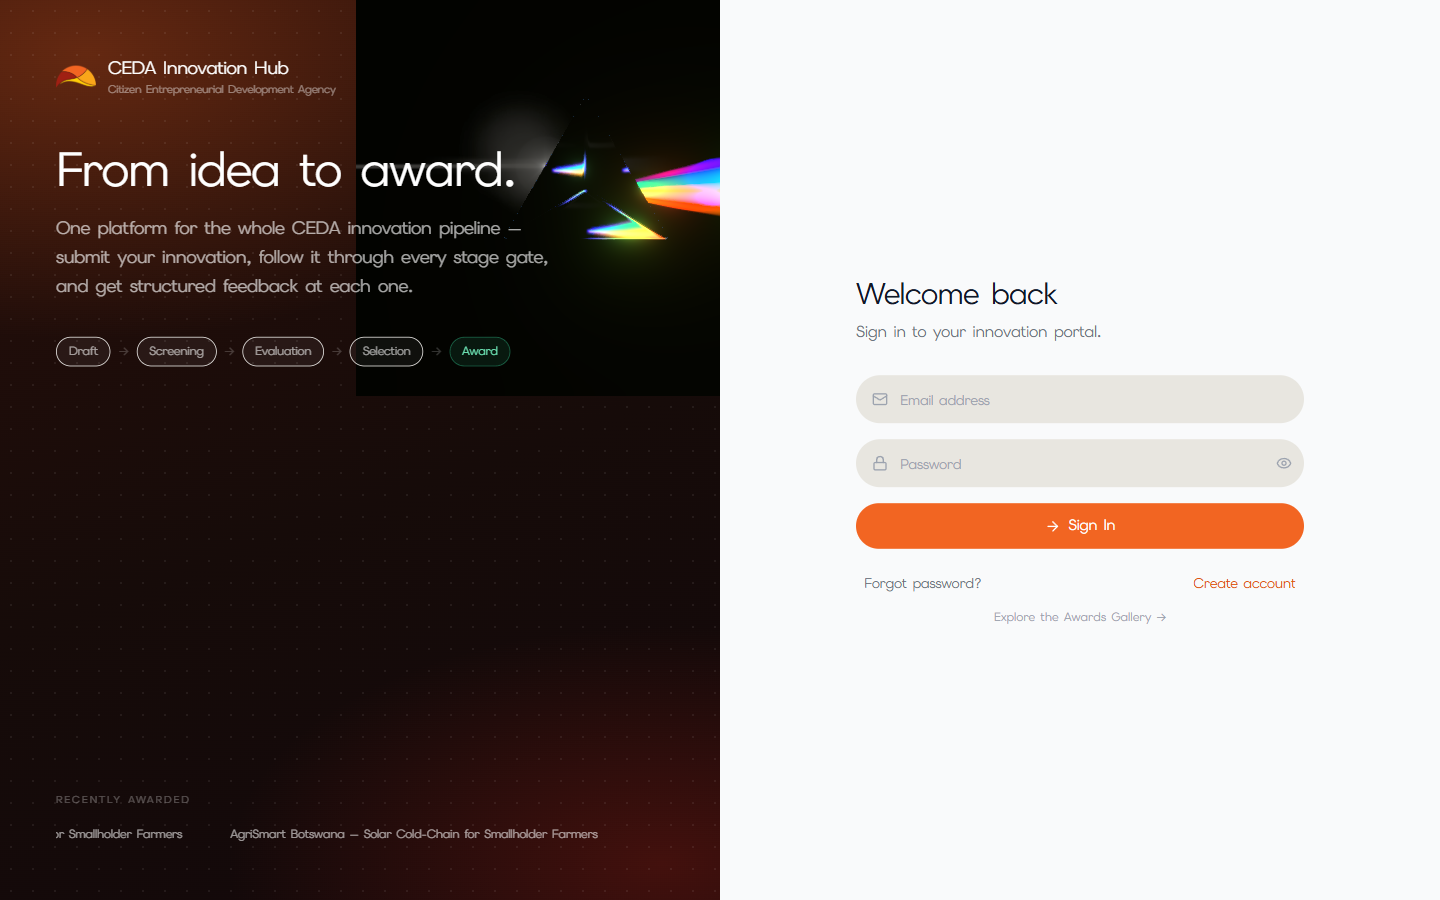
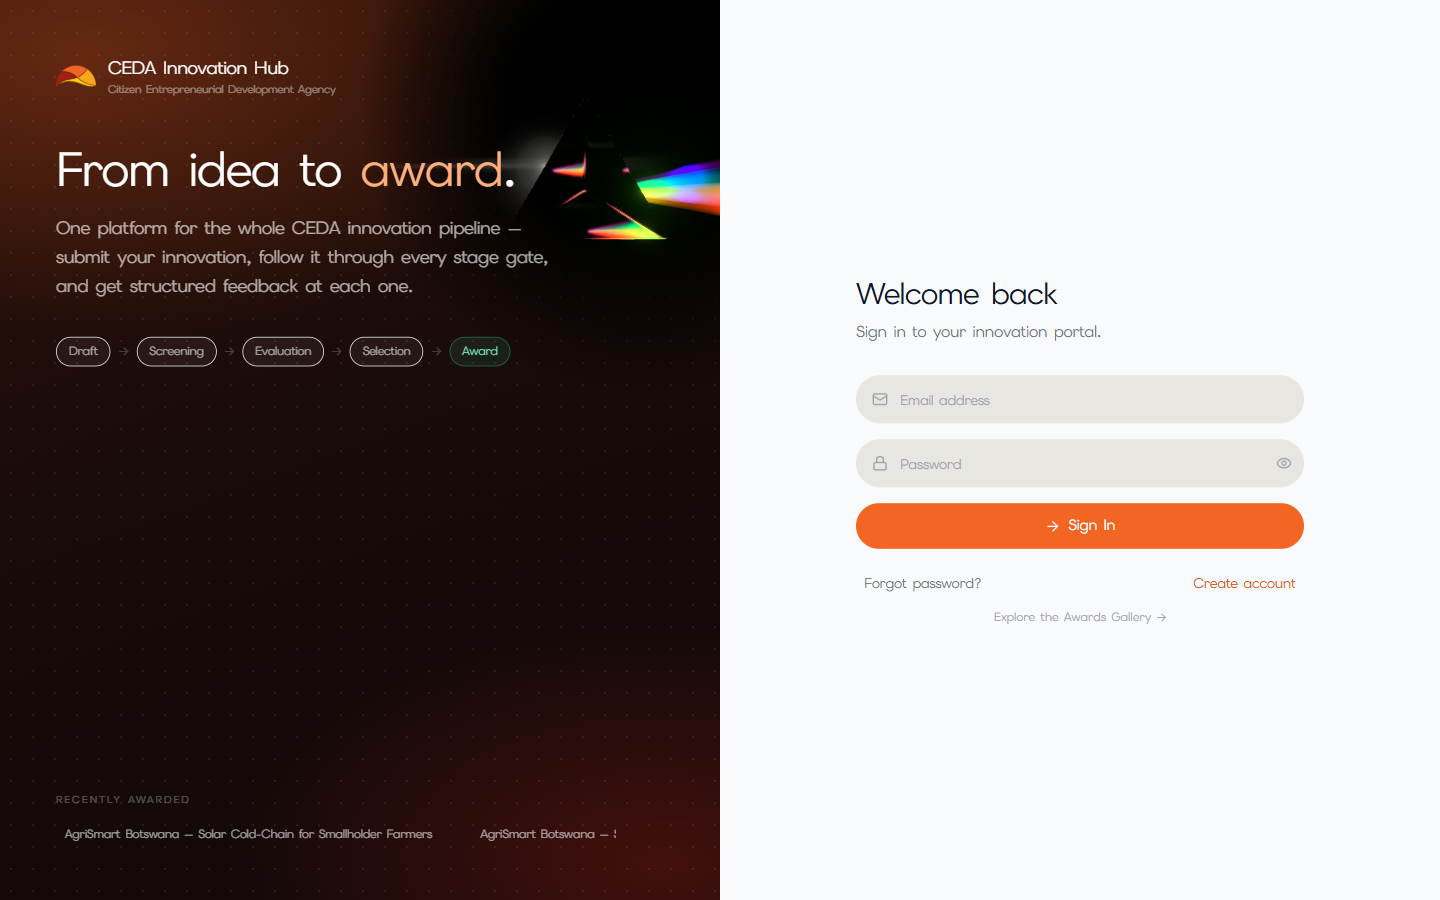
Mirror the prism assets as part of the sync so the CDN is never hit

Changed region(s): [[0.25, 0.0, 0.5, 0.3733], [0.0312, 0.9022, 0.4062, 0.9333]]

diff --git a/platform/src/components/block/v-prism.tsx b/platform/src/components/block/v-prism.tsx
@@ -359,11 +359,11 @@ export function VPrism({ settings, className = '' }: VPrismProps) {
 
     // Load assets
     Promise.all([
-      textureLoader.loadAsync('https://cdn-new.obsidianui.dev/effects/v-prism/lensflare2.png'),
-      textureLoader.loadAsync('https://cdn-new.obsidianui.dev/effects/v-prism/lensflare0_bw.jpg'),
-      textureLoader.loadAsync('https://cdn-new.obsidianui.dev/effects/v-prism/lensflare3.png'),
-      textureLoader.loadAsync('https://cdn-new.obsidianui.dev/effects/v-prism/lensflare0_bw.png'),
-      new GLTFLoader().loadAsync('https://cdn-new.obsidianui.dev/effects/v-prism/prism.glb'),
+      textureLoader.loadAsync('/prism/lensflare2.png'),
+      textureLoader.loadAsync('/prism/lensflare0_bw.jpg'),
+      textureLoader.loadAsync('/prism/lensflare3.png'),
+      textureLoader.loadAsync('/prism/lensflare0_bw.png'),
+      new GLTFLoader().loadAsync('/prism/prism.glb'),
     ]).then(([sTex, gTex, dotTex, fGlowTex, gltf]) => {
       if (isDisposed) return;
 
